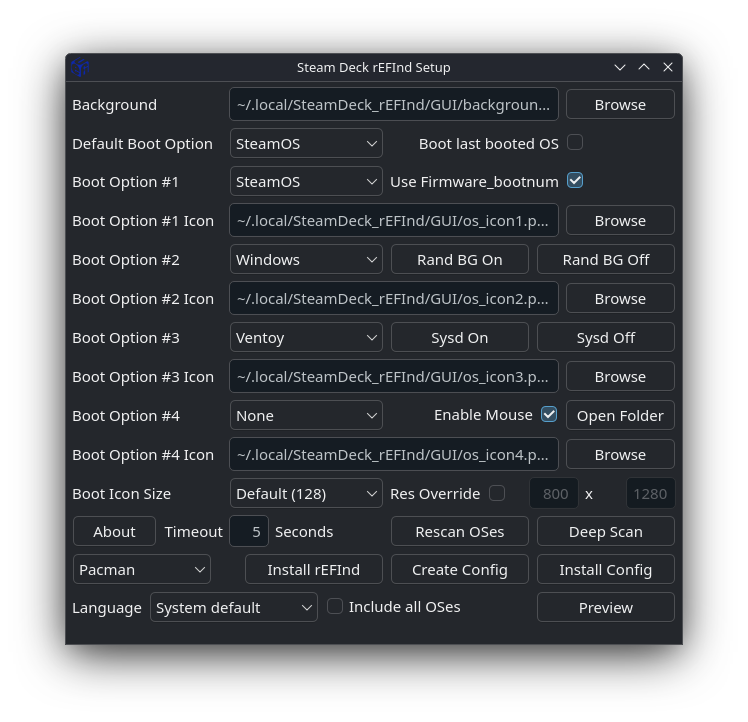
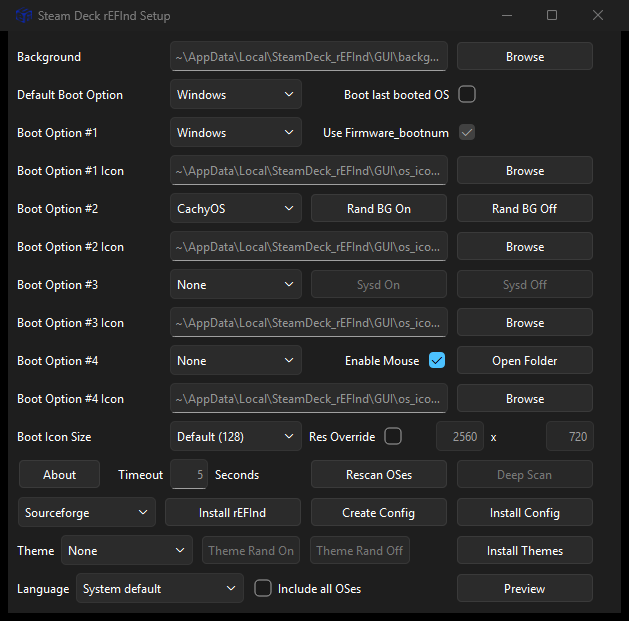
README: staged-file editing notes, theme collection source link, refreshed screenshot
- New "Hand-editing the staged files" section: the staged refind.conf,
  background/icon PNGs, backgrounds/ pool, and themes/ tree can all be
  edited by hand and are installed as-is by Install Config / Install Themes.
- Link the rEFInd Themes Collection gallery's GitHub source
  (martinmilani/rEFInd-theme-collection).
- Refresh the GUI screenshot with a v3.2.1 capture (Windows build) showing
  the new Theme controls.

Claude-Session: https://claude.ai/code/session_01BSsnfKtbwLRJikxjcfeDsm

diff --git a/README.md b/README.md
@@ -35,6 +35,15 @@ Additional buttons and options:
 
 Custom images: backgrounds should be 1,280x800 PNG files and icons square PNGs — ideally matching the **Boot Icon Size** you pick in the GUI (128x128 for the default; 256 and 512 versions of the Steam and Windows icons are included for the larger sizes). Other sizes still work, just scaled. PNG is required because other formats are hit and miss with rEFInd.
 
+### Hand-editing the staged files
+
+Everything the GUI installs to the ESP is first staged as plain files under `~/.local/SteamDeck_rEFInd/` (`%LOCALAPPDATA%\SteamDeck_rEFInd` for the Windows app). Editing those files by hand is supported — the install buttons copy whatever is there:
+
+- `GUI/refind.conf` — generated by **Create Config**. You can tweak or extend it (extra stanzas, rEFInd options the GUI doesn't expose) before pressing **Install Config**, which installs it exactly as edited — along with `GUI/active_theme.conf` when a theme is selected. Pressing **Create Config** again regenerates the file, so keep a copy of manual edits you want to re-apply.
+- `GUI/background.png` and `GUI/os_icon1.png` … `os_icon4.png` — the staged copies of the selected background and icons. Replacing these files directly (PNG only) works just as well as picking them in the GUI; **Install Config** installs whatever is staged.
+- `backgrounds/` — the pool the background randomizer draws from on each boot; add or remove PNGs as you like.
+- `themes/<name>/` — the tree **Install Themes** copies to the ESP (every folder containing a `theme.conf` counts). You can edit a bundled theme — swap its icons, tweak its `theme.conf` — or drop in a new one, then press **Install Themes** again to install it as-is.
+
 ### Windows from micro SD card
 
 Automated since 2.0.0 — just make sure the SD card is inserted when you click **Create Config**; the Windows-on-SD entry and its partition GUID are detected and resolved automatically.
@@ -77,7 +86,7 @@ Note: if both the background randomizer and the theme randomizer are enabled, th
 
 More themes to explore (installable manually the same way — drop a folder under `themes/` whose `theme.conf` uses `themes/<folder>/...` paths):
 
-- [rEFInd Themes Collection](https://refind-themes-collection.netlify.app/)
+- [rEFInd Themes Collection](https://refind-themes-collection.netlify.app/) — gallery site; its source and theme list live on GitHub at [martinmilani/rEFInd-theme-collection](https://github.com/martinmilani/rEFInd-theme-collection)
 - [rodsbooks.com — Using rEFInd Themes](https://www.rodsbooks.com/refind/themes.html)
 
 ## Windows app (new in 2.0.0)
